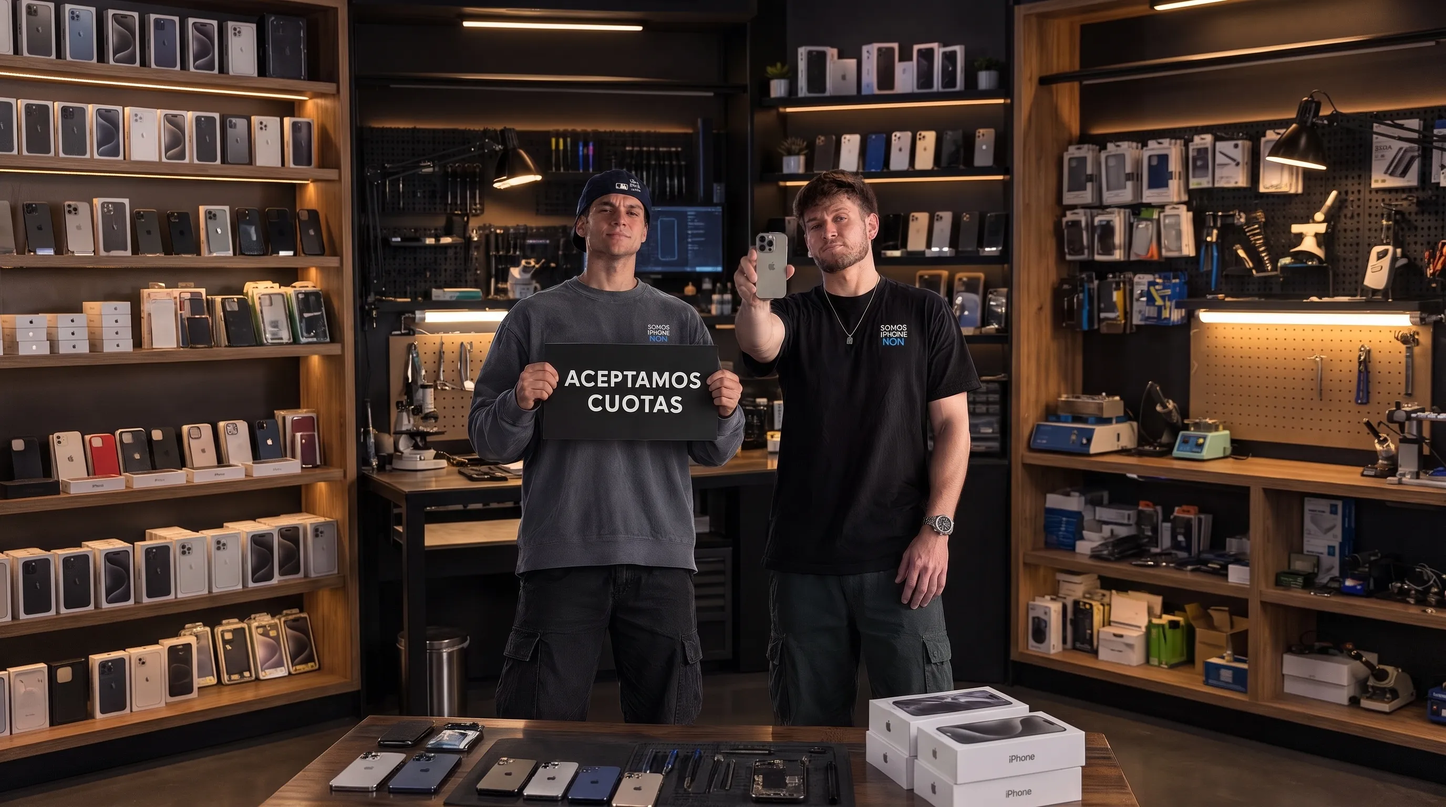
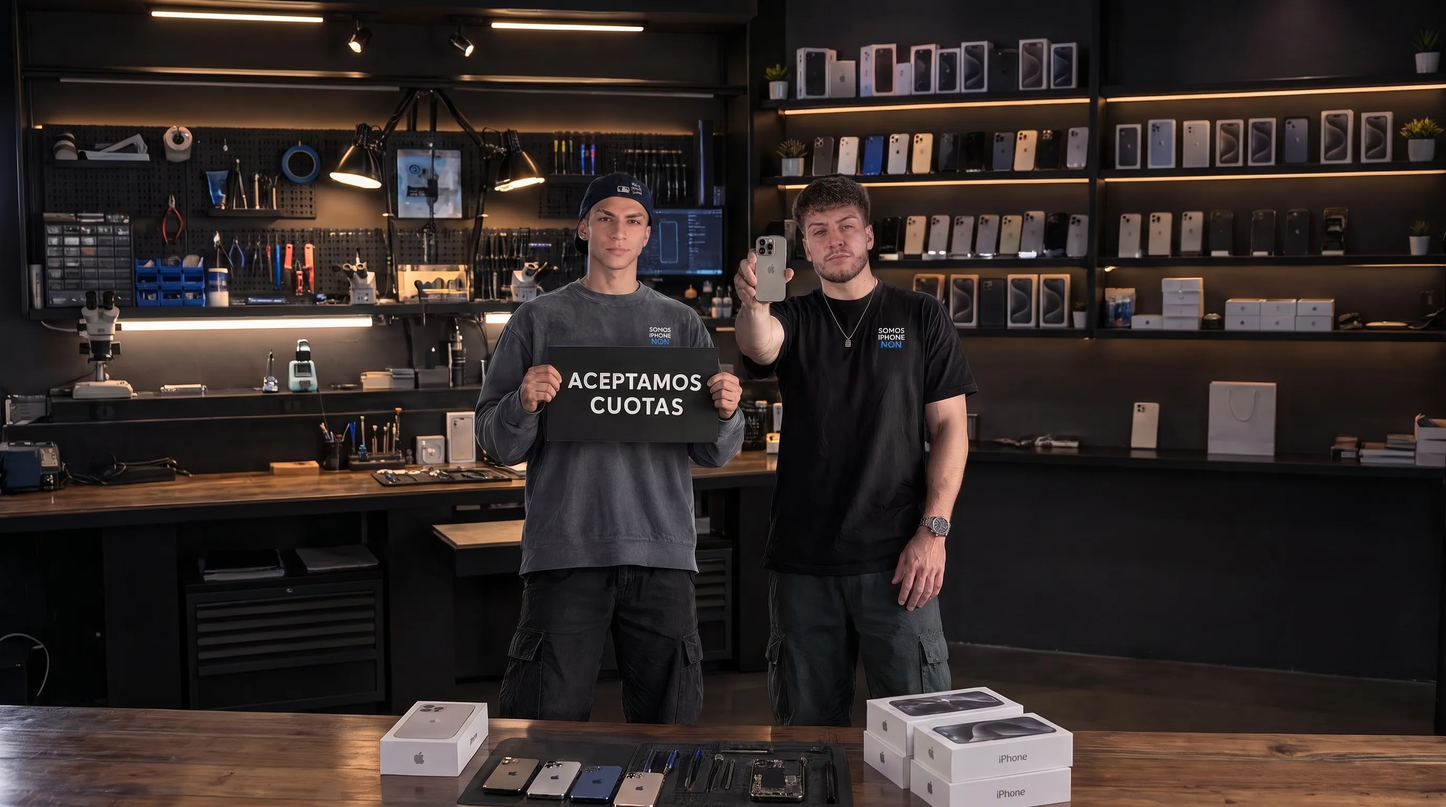
Portada A con las caras nuevas de Tomi y Fran

diff --git a/src/scene/frames.ts b/src/scene/frames.ts
@@ -53,8 +53,8 @@ type Portada = "a" | "b";
 /** Punto (0..1) de la imagen hacia donde apunta cada zoom, por variante. */
 const FOCUS: Record<Portada, Record<Variant, Record<Focus, [number, number]>>> = {
   a: {
-    mobile: { camara: [0.606, 0.328], cartel: [0.3, 0.482] },
-    desktop: { camara: [0.532, 0.319], cartel: [0.43, 0.485] },
+    mobile: { camara: [0.605, 0.316], cartel: [0.3, 0.481] },
+    desktop: { camara: [0.533, 0.332], cartel: [0.4375, 0.489] },
   },
   b: {
     mobile: { camara: [0.617, 0.366], cartel: [0.27, 0.514] },
